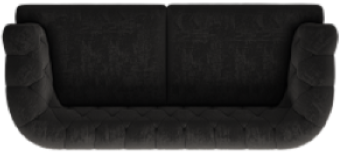
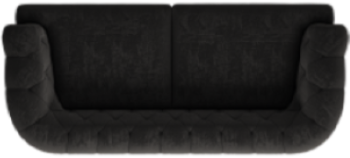
Add files via upload
ADDED THE CHIT TEXTURE AND CHIT CLUE DISPLAY

diff --git a/ESCAPE-ROOM-GAME.cpp b/ESCAPE-ROOM-GAME.cpp
@@ -2,7 +2,7 @@
 #include<string>
 #include<cctype>
 using namespace std;
-typedef enum { START, PLAYING, PAUSED, RESTART, GAMEOVER, BOOKRIDDLE, COFFIN, COMPPASSWORD, HOLE, HAND } GameState;/////// ADDED A STATE ////////
+typedef enum { START, PLAYING, PAUSED, RESTART, GAMEOVER, BOOKRIDDLE, COFFIN, COMPPASSWORD, HOLE, CHIT } GameState;/////// ADDED A STATE ////////
 
 
 int main()
@@ -14,7 +14,7 @@ int main()
     float timeLeft = 120.0f;
     bool gameStart = true;
     //
-    Rectangle bookArea = { 340,300,240,40 }, compArea = { 0,200,240,200 }, sofaArea = {280,490,350,234}, coffinArea = { 780, 300, 220, 50 }, holeArea = { 840, 560, 220, 160 }, handArea = { 25,500,100,100 };
+    Rectangle bookArea = { 340,300,240,40 }, compArea = { 0,200,240,200 }, sofaArea = {280,516,350,234}, coffinArea = { 780, 300, 220, 50 }, holeArea = { 840, 560, 220, 160 }, chitArea = { 25,500,100,100 };
 
     InitWindow(screenWidth, screenHeight, "ESCAPE ROOM");
     InitAudioDevice();
@@ -33,13 +33,14 @@ int main()
     Texture2D skeletonTexture = LoadTexture("TIMESKELETON.png");
     Texture2D coffinTexture = LoadTexture("COFFINS.png");
     Texture2D skullsTexture = LoadTexture("skull.png");
-    Texture2D handsTexture = LoadTexture("HANDS.png");
+    Texture2D chitTexture = LoadTexture("chitss.png");
     Texture2D cracksTexture = LoadTexture("cracks.png");
     Texture2D holeTexture = LoadTexture("HOLE.png");
     Texture2D chainsTexture = LoadTexture("chainsR.png");
     Texture2D gameoverTexture = LoadTexture("game over.png");/////////////////
     Texture2D menudisplayTexture = LoadTexture("excaperoomdisplay.png");////////////////////
     Texture2D handscareTexture = LoadTexture("no escape msg jump.png");
+    Texture2D displaychitTexture = LoadTexture("DISPLAYCHIT.png");
     //sound
     Music mainmusic = LoadMusicStream("Eternal Terminal.mp3");
     Music riddlemusic = LoadMusicStream("riddle2.mp3");
@@ -57,7 +58,7 @@ int main()
 
     GameState state = START;
     Rectangle computer = { 0, 232, (float)computerTexture.width, (float)computerTexture.height };//ZAINAB
-    Rectangle sofa = {280,490,(float)sofaTexture.width,(float)sofaTexture.height};
+    Rectangle sofa = {280,516,(float)sofaTexture.width,(float)sofaTexture.height};
     Rectangle collisionArea = { 0,0,0,0 };
     // PLAYER SETTINGS
     Rectangle player = { 700, 500,(float)playerTexture.width, (float)playerTexture.height };//MARYAM
@@ -83,7 +84,7 @@ int main()
     bool submittedC1 = false;
     int resultC1 = 0;
     // we gotta make detection
-    bool nearBook = false, nearComp = false, nearCoffin = false, nearHole = false,nearHand=false;
+    bool nearBook = false, nearComp = false, nearCoffin = false, nearHole = false,nearChit=false;
     // MAIN GAME LOOP
    
     while (!WindowShouldClose())
@@ -118,7 +119,7 @@ int main()
             nearComp = CheckCollisionRecs(player, compArea);
             nearCoffin = CheckCollisionRecs(player, coffinArea);
             nearHole = CheckCollisionRecs(player, holeArea);
-            nearHand = CheckCollisionRecs(player, handArea);
+            nearChit = CheckCollisionRecs(player, chitArea);
 
             float speed = 350.0f;
             float ft = GetFrameTime();
@@ -219,9 +220,9 @@ int main()
                     while (GetCharPressed() > 0) {}   // throws away the "e" you just pressed
 
                 }
-                else if (nearHand)
+                else if (nearChit)
                 {
-                    state = HAND;
+                    state = CHIT;
                 }
             }
             if (IsKeyPressed(KEY_P))
@@ -335,7 +336,7 @@ int main()
                     if (IsKeyPressed(KEY_ENTER))
                     {
                         submittedCp = true;
-                        if (answerCp == "2007")
+                        if (answerCp == "9251")
                         {
                             passSolved = 1;
                             resultCp = 1;//RIGHT ANSWER CONDITION
@@ -398,7 +399,7 @@ int main()
                 state = PLAYING;
             }
         }
-        else if (state == HAND)
+        else if (state == CHIT)
         {
             if (IsKeyPressed(KEY_TAB))
             {
@@ -489,7 +490,7 @@ int main()
             DrawText("PRESS S TO START!", (screenWidth - MeasureText("PRESS S TO START!", 36)) / 2, 520, 36, YELLOW);*/
 
         }
-        else if (state == PLAYING || state == PAUSED || state == BOOKRIDDLE || state == COFFIN || state == COMPPASSWORD || state==HOLE ||state==HAND)//MARYAM
+        else if (state == PLAYING || state == PAUSED || state == BOOKRIDDLE || state == COFFIN || state == COMPPASSWORD || state==HOLE ||state==CHIT)//MARYAM
         {
             ClearBackground(DARKGRAY);
             // ROOM
@@ -508,7 +509,8 @@ int main()
 
 
             //SOFA
-            DrawTexture(sofaTexture, 280, 490, WHITE);
+            DrawTexture(sofaTexture, 280, 516, WHITE);
+
             //CRACKS
             DrawTexture(cracksTexture, 485, 520, WHITE);
 
@@ -521,15 +523,16 @@ int main()
 
             //TIME
             DrawText(TextFormat("Time: %d", (int)timeLeft), 20, 60, 30, BLACK);
+
             //TIME SKELETON 
             DrawTexture(skeletonTexture, 150, 55, WHITE);
 
-
-            //HANDS
-          //  DrawTexture(handsTexture, 25, 500, WHITE);
+            //CHIT
+            DrawTexture(chitTexture, 25, 600, WHITE);
 
             //LIVE 
             DrawText(TextFormat("%d LIVES", lives), 20, 20, 30, BLACK);
+
             //HEARTS
             DrawTexture(livesTexture, 150, 15, WHITE);
 
@@ -546,9 +549,9 @@ int main()
             //COFFIN
             DrawTexture(coffinTexture, 851, 190, WHITE);
             
-
             //SKULLS
             DrawTexture(skullsTexture, 750, 320, WHITE);
+
             //HOLE
             DrawTexture(holeTexture, 840, 538, WHITE);
            
@@ -557,8 +560,10 @@ int main()
 
             // Player 
             DrawTexture(playerTexture, player.x, player.y, WHITE);
+
             //COMPUTER
             DrawTexture(computerTexture, computer.x, computer.y, WHITE);
+
             // draw interaction 
            /* if (state == PLAYING && (nearBook || nearComp || nearCoffin || nearHole))
             {
@@ -575,10 +580,10 @@ int main()
                 DrawText("R : RESTART", (screenWidth - MeasureText("S : RESTART", 36)) / 2, 330, 36, WHITE);
                 DrawText("G : END GAME AND RETURN TO MAIN MENU", (screenWidth - MeasureText("G : END GAME AND RETURN TO MAIN MENU", 36)) / 2, 400, 36, WHITE);////////////////////////////////
             }
-            else if (state == HAND)
+            else if (state == CHIT)
             {
-                DrawRectangle(0, 0, screenWidth, screenHeight, BLACK);
-                DrawTexture(handscareTexture, 03,01, WHITE);
+                DrawRectangle(0, 0, screenWidth, screenHeight, Fade(BLACK, 0.7f));
+                DrawTexture(displaychitTexture, 04, 04, WHITE);
             }
             else if (state == BOOKRIDDLE)// MARYAM
             {
@@ -761,13 +766,13 @@ int main()
     UnloadTexture(skeletonTexture);
     UnloadTexture(coffinTexture);
     UnloadTexture(skullsTexture);
-    UnloadTexture(handsTexture);
     UnloadTexture(holeTexture);
     UnloadTexture(chainsTexture);
     UnloadTexture(cracksTexture);
     UnloadTexture(gameoverTexture);////////////////
     UnloadTexture(menudisplayTexture);//////////////////////
-    UnloadTexture(handscareTexture);
+    UnloadTexture(chitTexture);
+    UnloadTexture(displaychitTexture);
     //MUSIC
     UnloadMusicStream(mainmusic);
     UnloadMusicStream(riddlemusic);
